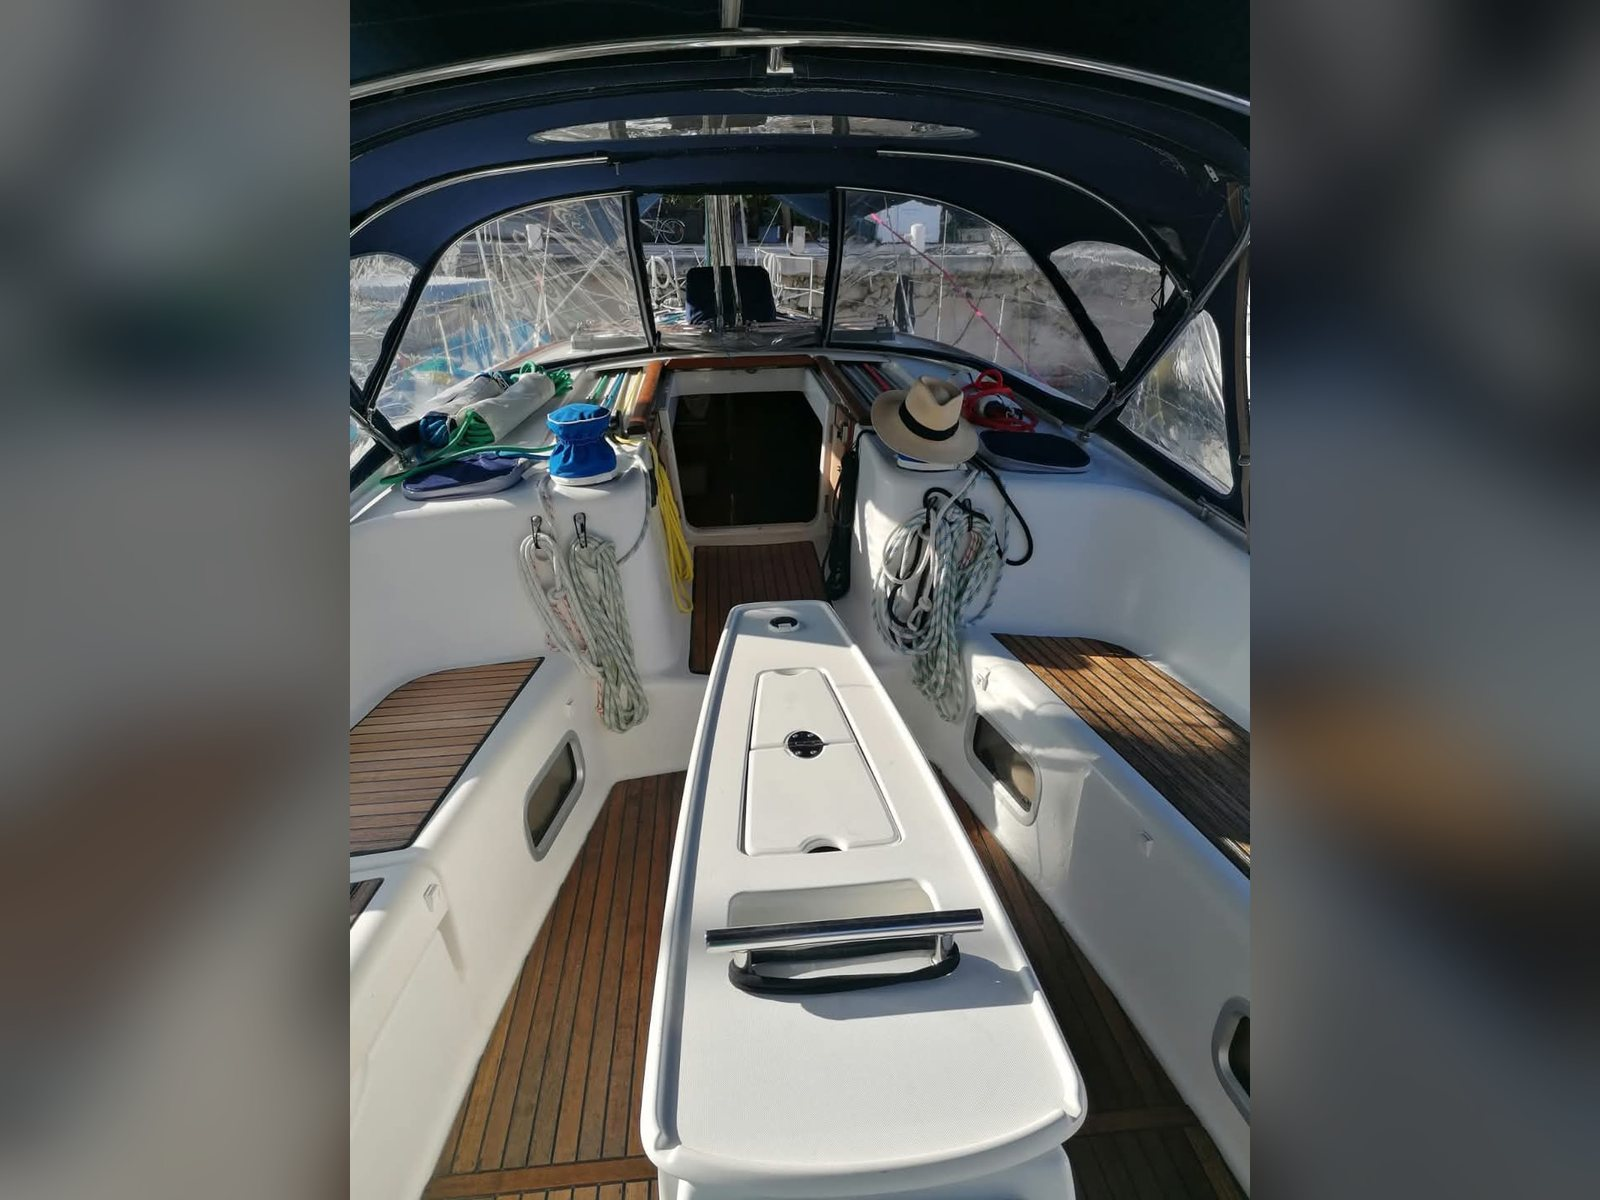
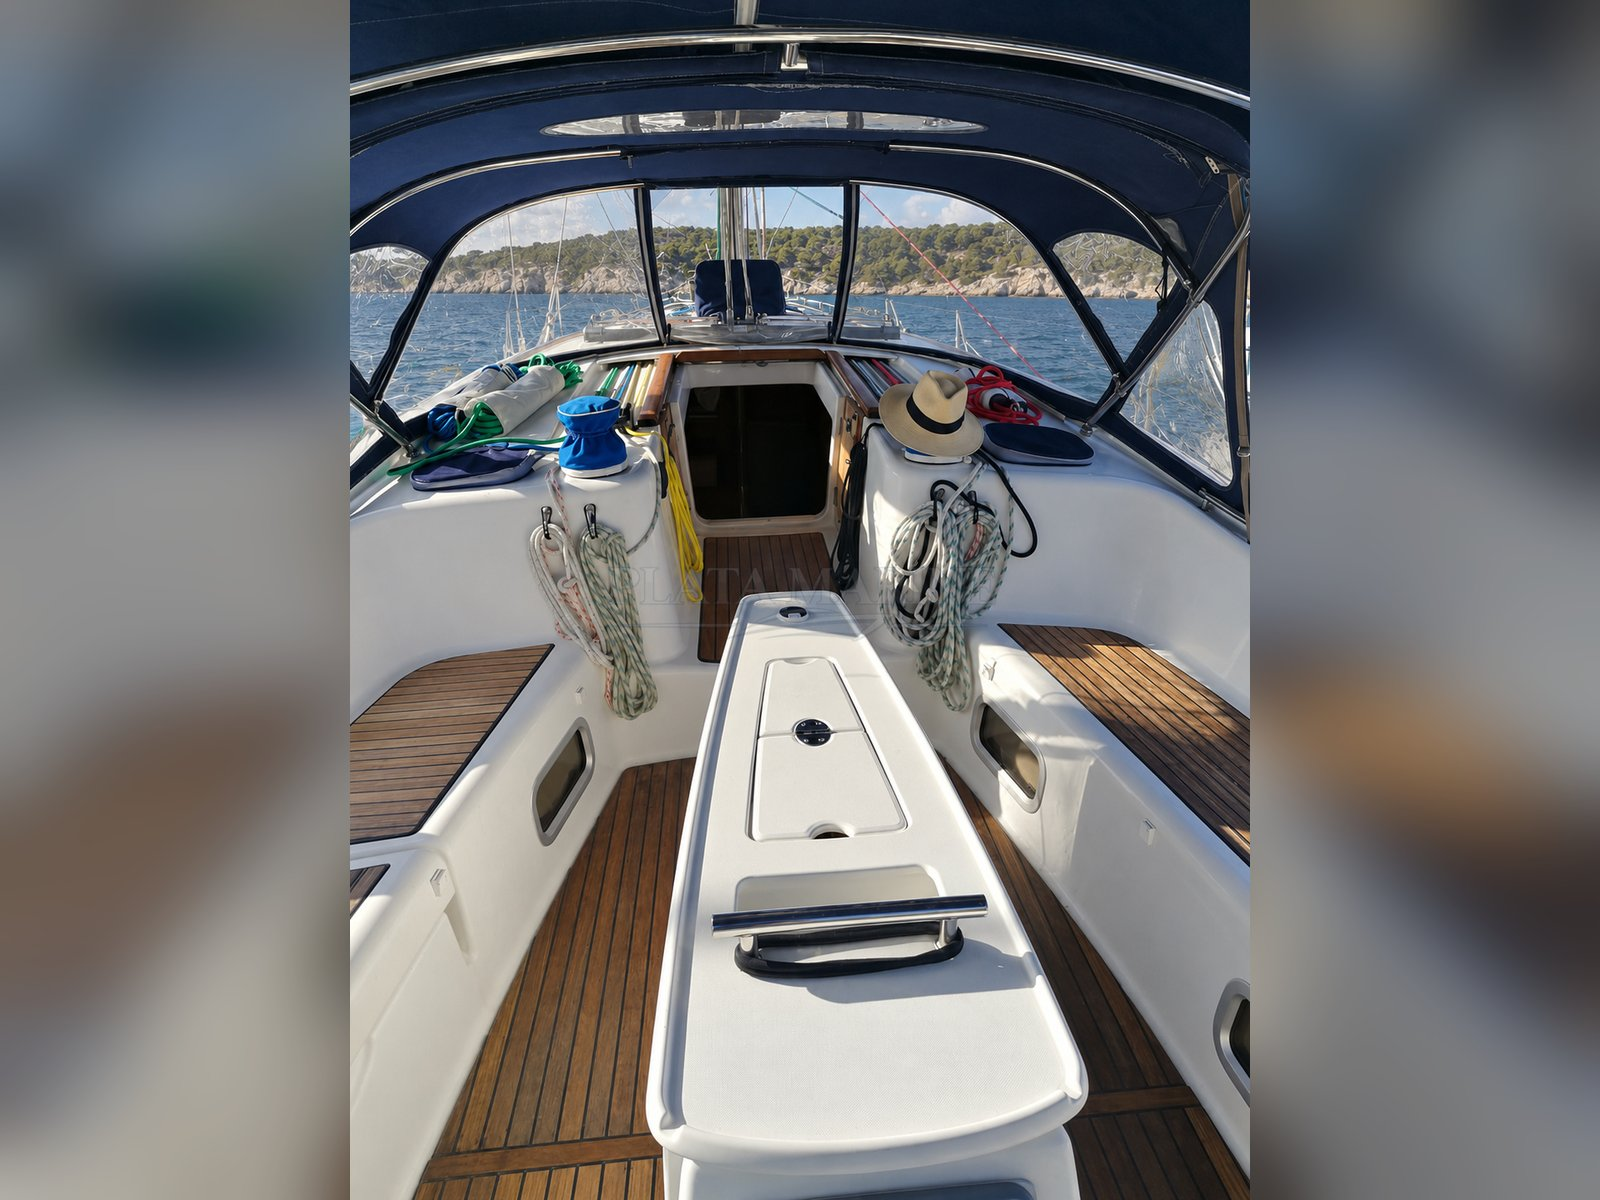
Oceanis 50: fotos editadas + alt portada (ES/CA/EN)

diff --git a/index.html b/index.html
@@ -539,7 +539,7 @@ section[id]{scroll-margin-top:78px}
       </div>
       <div class="boats">
         <article class="boat featured" data-pm-boat="oceanis-50">
-          <div class="gal" data-imgs="oceanis-50-1,oceanis-50-2,oceanis-50-3,oceanis-50-4" data-alt="Velero Beneteau Oceanis 50 amarrado en puerto" data-href="barcos/oceanis-50.html"><span class="boat-status">Disponible</span></div>
+          <div class="gal" data-imgs="oceanis-50-1,oceanis-50-2,oceanis-50-3,oceanis-50-4" data-alt="Velero Beneteau Oceanis 50 fondeado en una cala" data-href="barcos/oceanis-50.html"><span class="boat-status">Disponible</span></div>
           <div class="boat-body">
             <div class="boat-head"><h3><a href="barcos/oceanis-50.html" style="color:inherit;text-decoration:none">Beneteau Oceanis 50</a></h3><p class="price">155.000 €</p></div>
             <dl class="specs">
